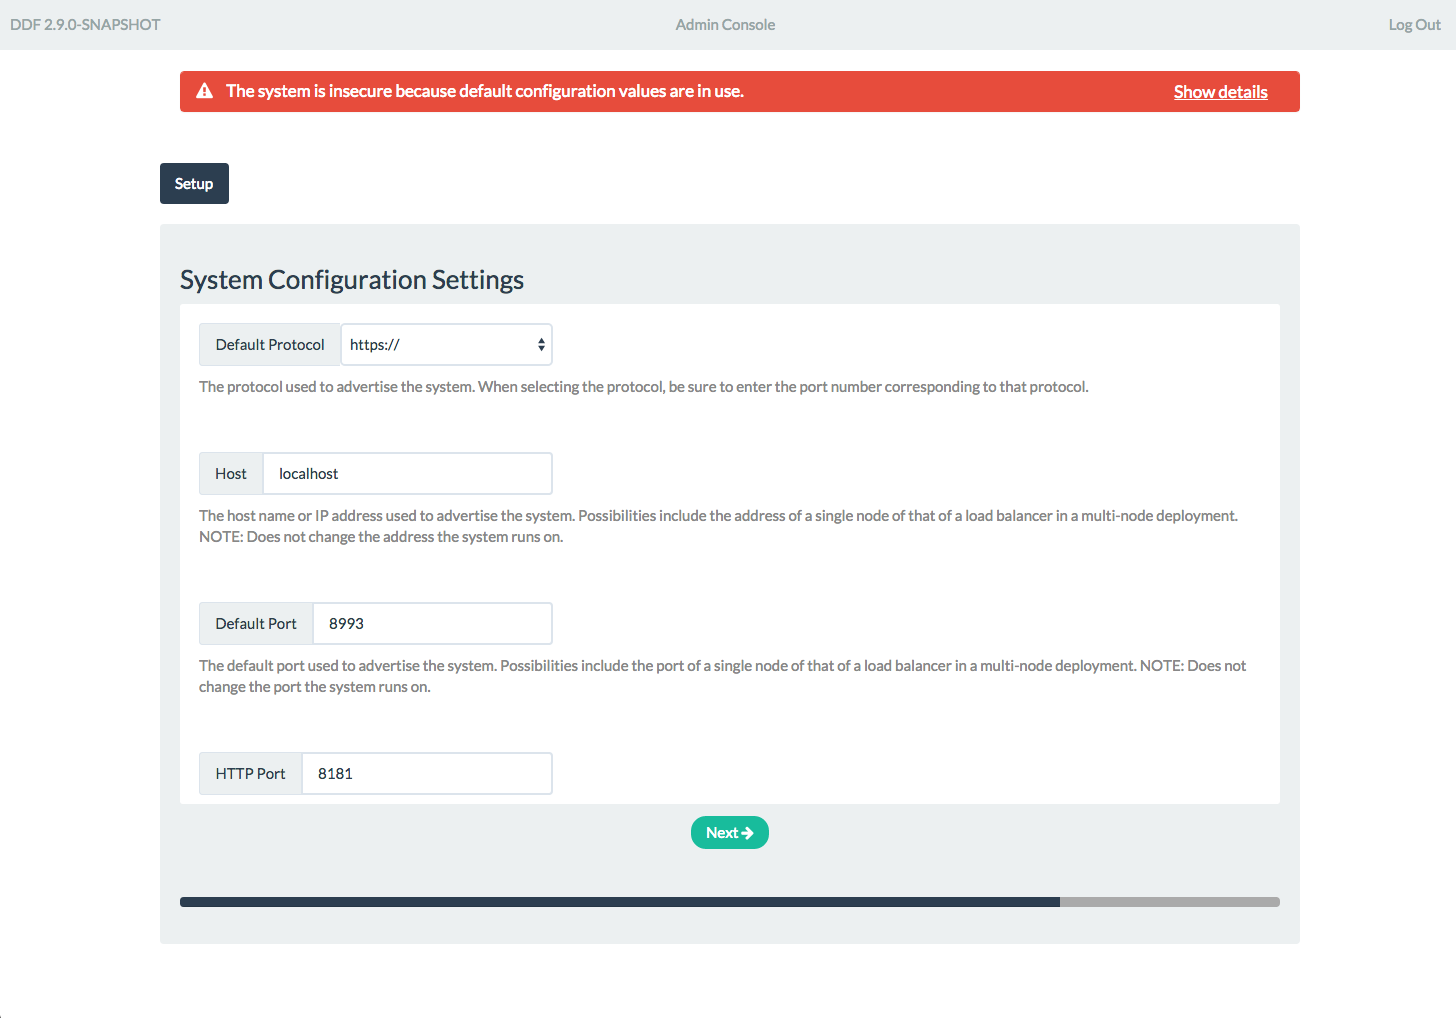
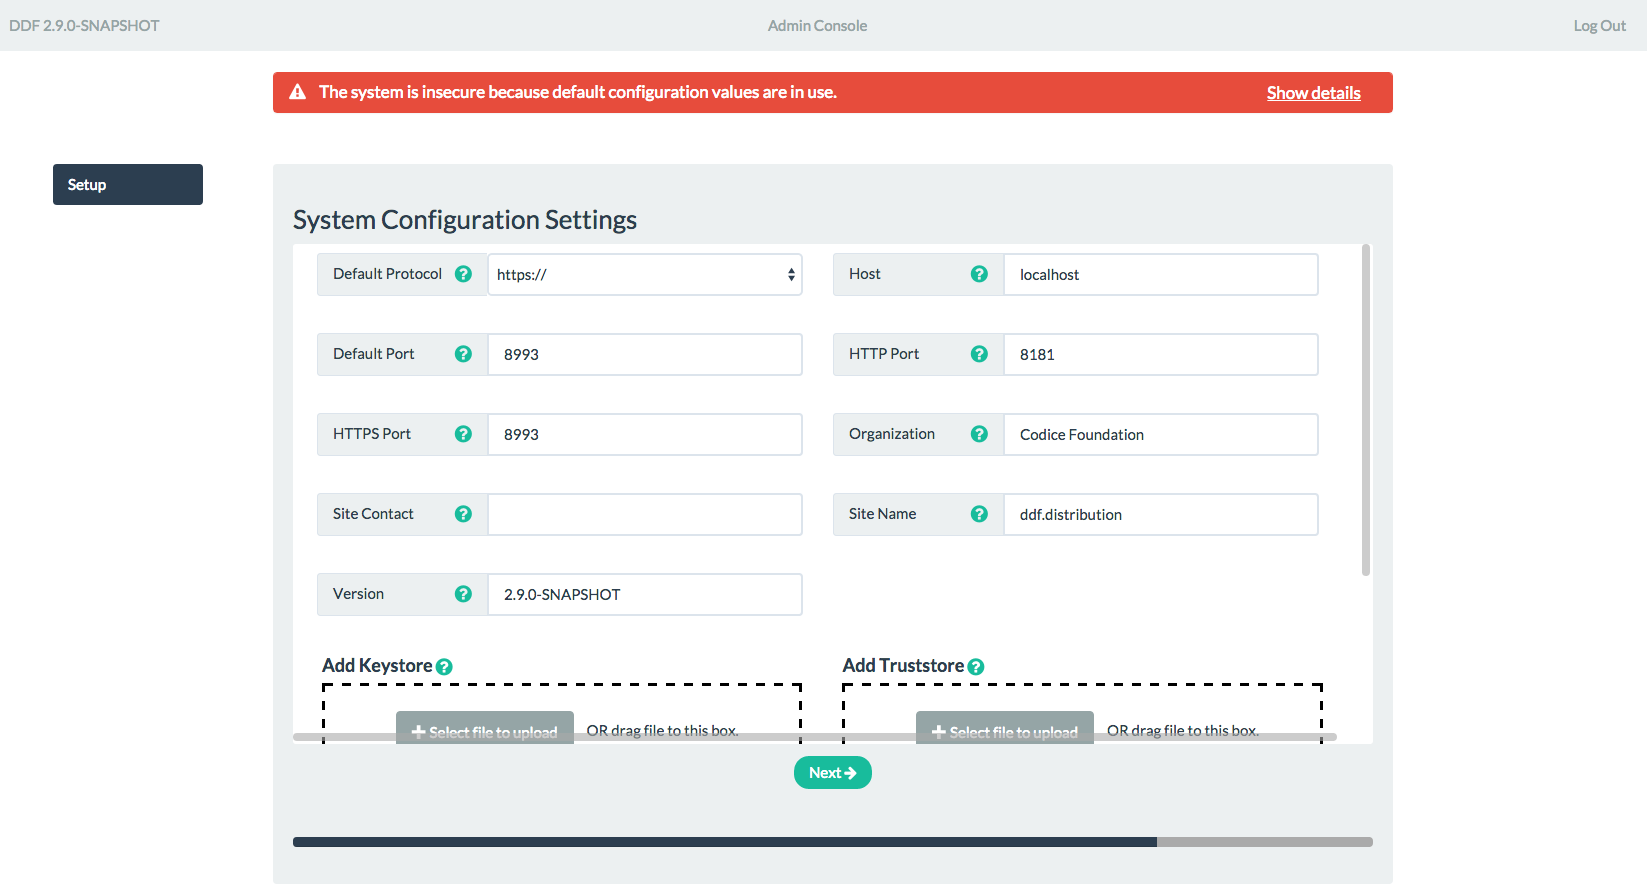
DDF-3357 Addressing installer page review comments. Configuration.view.js   Added the property-item class to the item view style.less   Created property-item configurationItem.handlebars   Changed so the property items wouldn't shift when the error text is displayed
Updated screenshots

diff --git a/platform/admin/ui/src/main/webapp/less/installer/style.less b/platform/admin/ui/src/main/webapp/less/installer/style.less
@@ -255,9 +255,7 @@ center {
         padding-left: 20px;
         padding-right: 20px;
 
-        .error-border {
-            border-color: @error-background-color !important;
-        }
+
         .drop-zone {
             text-align: center;
             border: dashed medium black;
@@ -273,12 +271,18 @@ center {
             padding: 5px 0px;
         }
     }
+    .error-border {
+        border-color: @error-background-color !important;
+    }
     .row {
         width: 100%;
     }
     .property-label {
         min-width:170px;
         text-align:left;
+    }
+    .property-item {
+        height: 80px;
     }
     .cert-label {
         min-width:180px;

diff --git a/platform/admin/ui/src/main/webapp/js/views/installer/Configuration.view.js b/platform/admin/ui/src/main/webapp/js/views/installer/Configuration.view.js
@@ -150,7 +150,7 @@ define([
 */
 var SystemPropertyView = Marionette.ItemView.extend({
     template: 'configurationItemTemplate',
-    className: 'col-md-6',
+    className: 'property-item col-md-6',
     initialize: function () {
         this.modelBinder = new Backbone.ModelBinder();
     },
